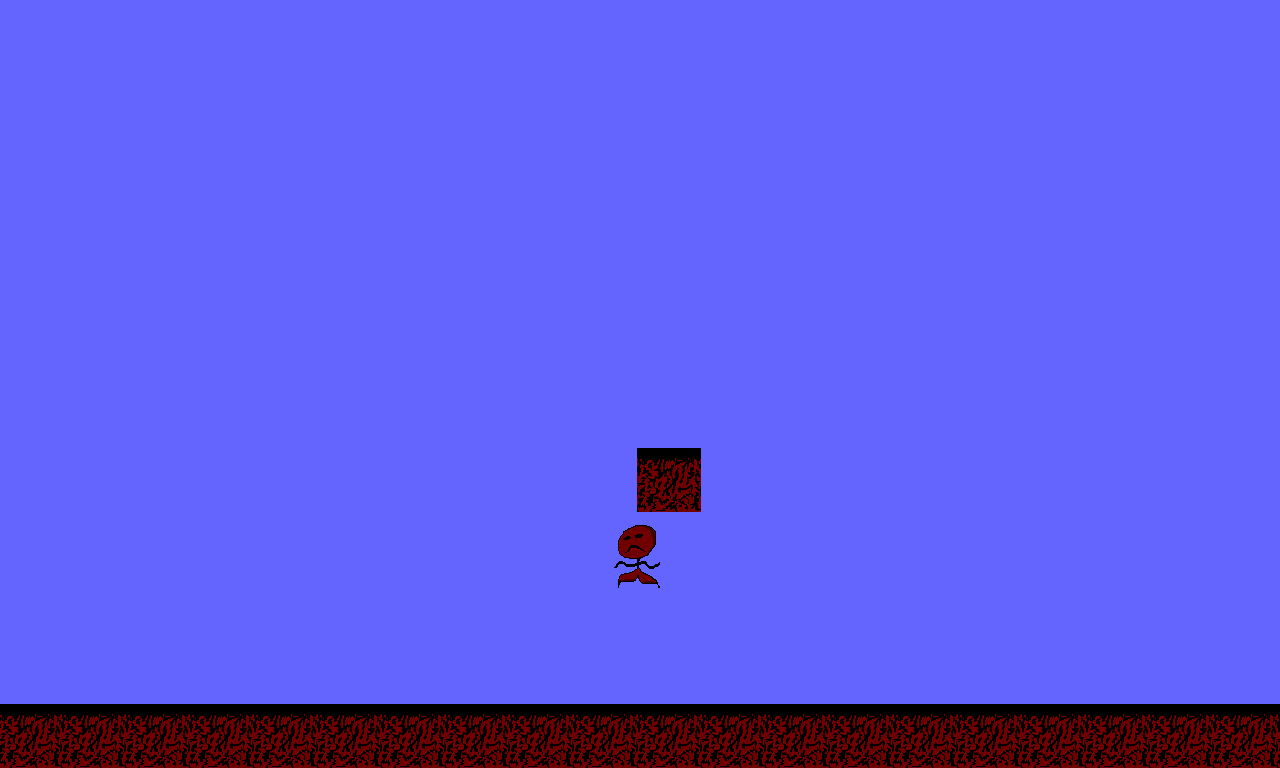
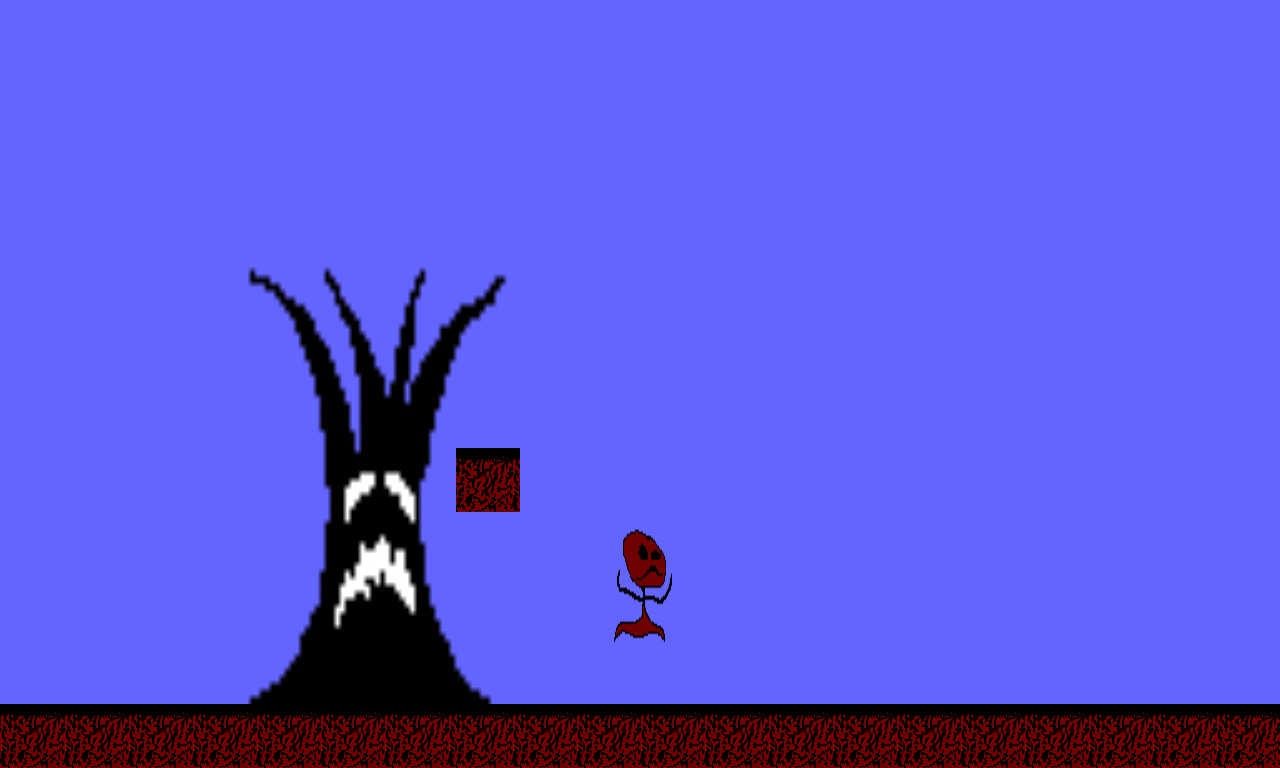
Slight modification to playerStand to playerIdle.

Changed region(s): [[0.0, 0.3438, 1.0, 1.0], [0.4688, 0.5625, 0.5625, 0.8438]]

diff --git a/Scene_Play.cpp b/Scene_Play.cpp
@@ -49,7 +49,7 @@ Vec2 Scene_Play::gridToMidPixel(float gridX, float gridY, std::shared_ptr<Entity
 
 	float x = 0.0f, y = 0.0f;
 	x = (gridX * m_gridSize.x) + (entity->getComponent<CAnimation>().animation.getSize().x / 2);
-	y = m_game->window().getSize().y - (gridY * m_gridSize.y) - (entity->getComponent<CAnimation>().animation.getSize().y / 2);
+	y = m_game->window().getSize().y - (gridY * m_gridSize.y) - (entity->getComponent<CAnimation>().animation.getSize().y / 2 * entity->getComponent<CTransform>().scale.y);
 
 	return Vec2(x, y);
 }
@@ -81,7 +81,12 @@ void Scene_Play::loadLevel(const std::string& filename)
 
 			auto tile = m_entityManager.addEntity("Tile");
 			tile->addComponent<CAnimation>(m_game->assets().getAnimation(name), true);
-			tile->addComponent<CTransform>(gridToMidPixel(tileGX, tileGY, tile));
+			tile->addComponent<CTransform>();
+			if (item == "Decoration")
+			{
+				tile->getComponent<CTransform>().scale = { 5.0, 7.0 };
+			}
+			tile->getComponent<CTransform>().pos = gridToMidPixel(tileGX, tileGY, tile);
 			if (item == "Tile")
 			{
 				// Decorations should not have a bounding box
@@ -124,6 +129,9 @@ void Scene_Play::spawnPlayer()
 	// Here is a sample player entity which you can use to construct other entities
 	m_player = m_entityManager.addEntity("Player");
 	m_player->addComponent<CAnimation>(m_game->assets().getAnimation("PlayerJump"), true);
+	//m_player->addComponent<CTransform>();
+	//m_player->getComponent<CTransform>().scale = { 2.0, 2.0 };
+	//m_player->getComponent<CTransform>().pos = gridToMidPixel(m_playerConfig.gridX, m_playerConfig.gridY, m_player);
 	m_player->addComponent<CTransform>(Vec2(gridToMidPixel(m_playerConfig.gridX, m_playerConfig.gridY, m_player)));
 	m_player->addComponent<CState>().state = "JUMPING";
 	m_player->addComponent<CBoundingBox>(Vec2(m_playerConfig.collisionX, m_playerConfig.collisionY));
@@ -181,21 +189,17 @@ void Scene_Play::sStatus()
 		{
 			if (e->tag() == "Player")
 			{
-				if (e->getComponent<CState>().state == "STANDING")
+				if (e->getComponent<CState>().state == "IDLE" && e->getComponent<CAnimation>().animation.getName() != "PlayerIdle")
 				{
-					e->getComponent<CAnimation>().animation = m_game->assets().getAnimation("PlayerStand");
-					//m_player->addComponent<CAnimation>(m_game->assets().getAnimation("PlayerStand"), true);
-					e->getComponent<CAnimation>().animation.update();
+					e->getComponent<CAnimation>().animation = m_game->assets().getAnimation("PlayerIdle");
 				}
-				else if (e->getComponent<CState>().state == "JUMPING")
+				else if (e->getComponent<CState>().state == "JUMPING" && e->getComponent<CAnimation>().animation.getName() != "PlayerJump")
 				{
 					e->getComponent<CAnimation>().animation = m_game->assets().getAnimation("PlayerJump");
-					//m_player->addComponent<CAnimation>(m_game->assets().getAnimation("PlayerJump"), true);
-					e->getComponent<CAnimation>().animation.update();
 				}
 				else if (e->getComponent<CState>().state == "RUNNING")
 				{
-					// TODO
+					e->getComponent<CAnimation>().animation = m_game->assets().getAnimation("PlayerRun");
 				}
 				else if (e->getComponent<CState>().state == "SHOOTING")
 				{
@@ -235,16 +239,25 @@ void Scene_Play::sMovement()
 				{
 					e->getComponent<CTransform>().velocity.x = e->getComponent<CInput>().right ? m_playerConfig.speedX : -m_playerConfig.speedX;
 					e->getComponent<CTransform>().scale.x = e->getComponent<CInput>().right ? 1 : -1;
+					if (m_pIsOnGround)
+					{
+						e->getComponent<CState>().state = "RUNNING";
+					}
 				}
 				else if (!e->getComponent<CInput>().right && !e->getComponent<CInput>().left)
 				{
 					e->getComponent<CTransform>().velocity.x = 0.0f;
+					if (m_pIsOnGround)
+					{
+						e->getComponent<CState>().state = "IDLE";
+					}
 				}
 
 				// SET PLAYER Y-VELOCITY
 				if (e->getComponent<CInput>().up && e->getComponent<CInput>().canJump && m_pIsOnGround)
 				{
 					e->getComponent<CTransform>().velocity.y = m_playerConfig.speedY;
+					e->getComponent<CState>().state = "JUMPING";
 					e->getComponent<CInput>().canJump = false;
 					m_pIsOnGround = false;
 				}
@@ -422,8 +435,8 @@ void Scene_Play::sAnimation()
 void Scene_Play::sRender()
 {
 	// Color the background darker so you know that the game is paused
-	if (!m_paused) { m_game->window().clear(sf::Color(100, 100, 255)); }
-	else { m_game->window().clear(sf::Color(50, 50, 150)); }
+	if (!m_paused) { m_game->window().clear(sf::Color(0xa83e75)); }
+	else { m_game->window().clear(sf::Color(0xa83ea8)); }
 
 	// Set the viewport of the window to be centered on the player if it's far enough right
 	auto& pPos = m_player->getComponent<CTransform>().pos;
